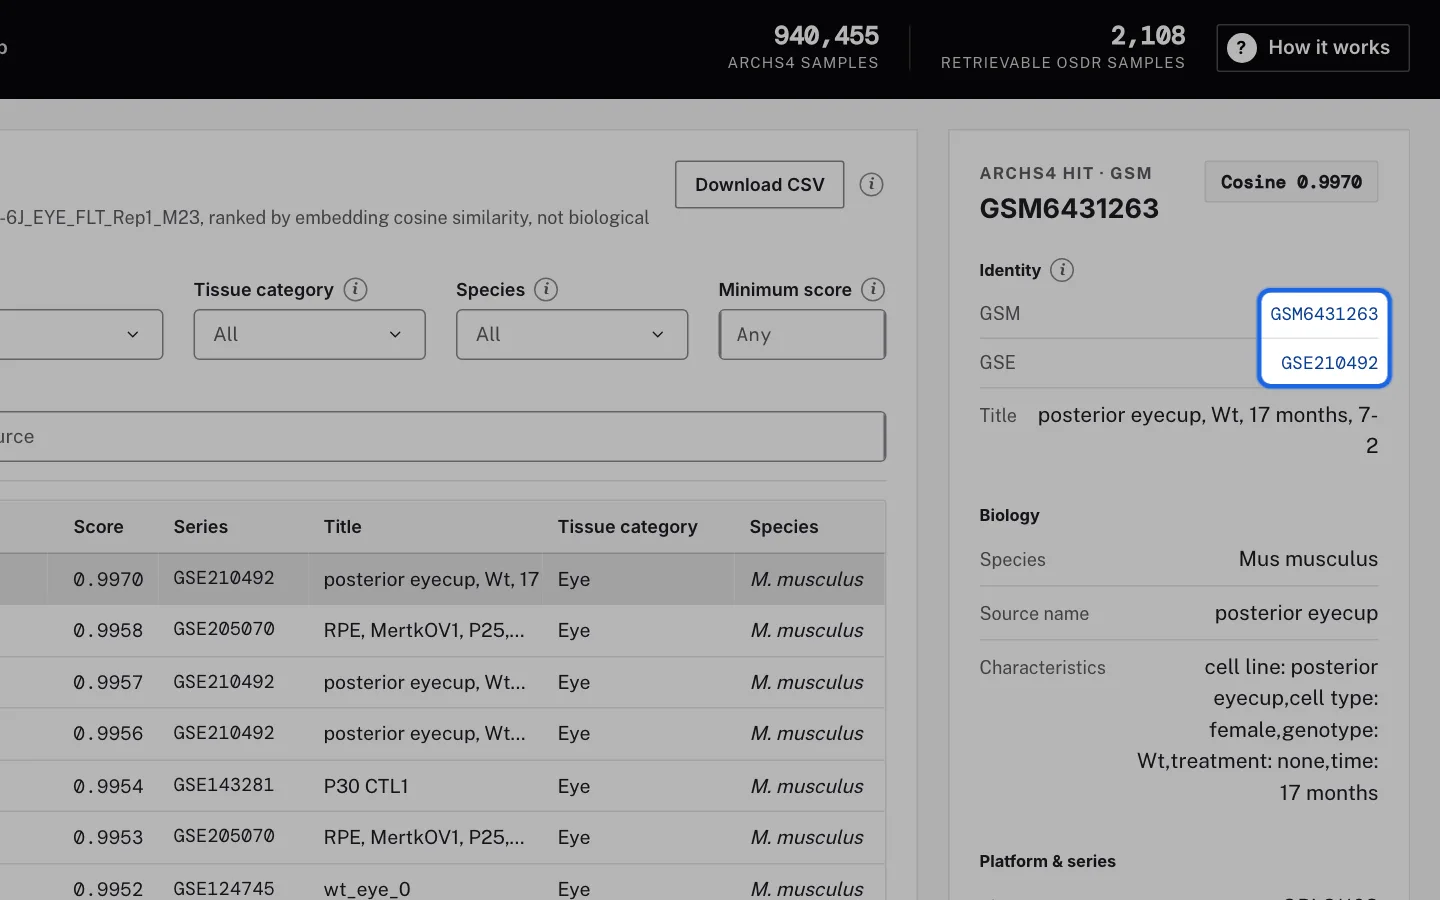
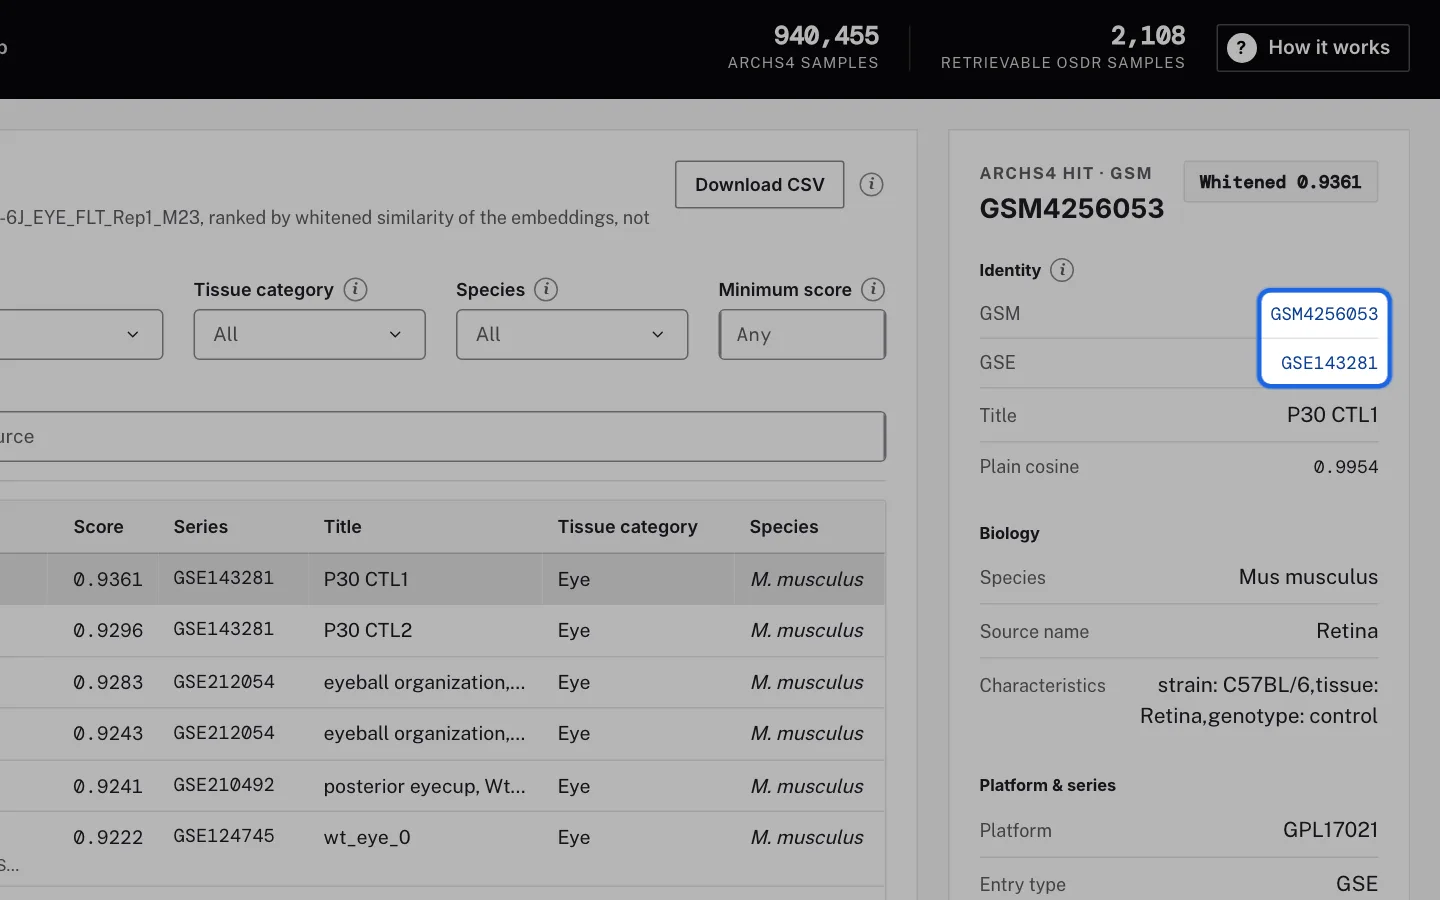
fix: inspector survives a selection absent from new results; recapture the guide
Select a match, then run a search that does not retrieve it, and the
details callback failed on an empty frame. Latent before whitening: the
browser suite's cohort comparison happened to retrieve the same match
under cosine. Pinned by a test.

Guide screenshots recaptured with the Matching control; docs and test
counts updated (1,025 unit, 628 browser checks, all passing).

diff --git a/bridge_rna/panels.py b/bridge_rna/panels.py
@@ -489,8 +489,10 @@ def _build_selected_details(query: pd.Series, selected_payload: dict[str, Any] |
         return _build_query_details(query_b, compact=False, role="b")
 
     if node_kind == "gse":
-        df = hits_df[hits_df["gse"] == node_id]
-        examples = ", ".join(df["gsm"].head(8).astype(str).tolist())
+        df = (hits_df[hits_df["gse"] == node_id] if "gse" in hits_df.columns
+              else hits_df.iloc[0:0])
+        examples = (", ".join(df["gsm"].head(8).astype(str).tolist())
+                    if "gsm" in df.columns else "")
         return [
             _details_head("GSE study", node_id),
             _accession_row("Study", node_id),
@@ -503,7 +505,11 @@ def _build_selected_details(query: pd.Series, selected_payload: dict[str, Any] |
             html.P("Click an individual GSM node for full GEO fields.", className="details-empty-hint"),
         ]
 
-    df = hits_df[hits_df["gsm"] == node_id]
+    # A selection can outlive the results it was made in: select a match, then
+    # run another search that does not retrieve it, and the inspector receives
+    # the selection with no rows at all - a frame without a `gsm` column.
+    df = (hits_df[hits_df["gsm"] == node_id] if "gsm" in hits_df.columns
+          else hits_df.iloc[0:0])
     if df.empty:
         return [
             _details_head("Details", "No metadata"),

diff --git a/tests/test_scoring.py b/tests/test_scoring.py
@@ -360,3 +360,21 @@ def test_each_search_records_the_scoring_that_actually_ran(monkeypatch, whitened
     payload, _ = callback("search-button")(1, sid, 1, None, "", [], "cosine")
     assert payload["scoring"] == "cosine"
 
+
+
+def test_a_selection_absent_from_new_results_does_not_break_the_inspector():
+    """Found by the browser suite under whitening: select a match, then run a
+    search that does not retrieve it, and the inspector got a selection with
+    no rows. Latent before; cosine happened to retrieve the same match."""
+    import app as shell
+
+    from bridge_rna import callbacks as rc
+
+    built = shell.build_app()
+    render = built.callback_map["details-panel.children"]["callback"].__wrapped__
+    q = rc._query_dict(rc.samples_df.iloc[0])
+    for kind in ("gsm", "gse"):
+        out = render({"query": q, "sample_id": "COHORT|x", "query_b": q,
+                      "entrez_email": "", "scoring": "whitened",
+                      "selected": {"kind": kind, "node_id": "GSM-NOT-HERE"}, "rows": []})
+        assert out

diff --git a/bridge_rna/guide.py b/bridge_rna/guide.py
@@ -53,7 +53,8 @@ CHAPTERS: tuple[Chapter, ...] = (
         Slide("retrieve-02-search",
               "Choose how many matches, then search",
               "Ask for anywhere from 3 to 1,000 of the closest GEO samples. "
-              "Search compares your sample against all 940,455 of them.",
+              "Search compares your sample against all 940,455 of them, ranked "
+              "by whitened similarity unless you pick Plain cosine.",
               "The number-of-matches control and the Search button."),
         Slide("retrieve-03-table",
               "Read the ranked matches",

diff --git a/CLAUDE.md b/CLAUDE.md
@@ -20,7 +20,7 @@ reintroduce its panel, warnings, or payload. Executed membership remains a discl
 `app.py` is the single entry point and owns the header and the router.
 **The router must decline to repaint a route that is already on screen.** `serve_layout` paints the requested view server-side, but `dcc.Location` publishes `pathname` once it mounts and Dash reads that as a change, so `prevent_initial_call` alone let the router rebuild the view on every load. Rebuilding the retrieval view reads the OSDR catalog, so its response landed a few hundred milliseconds later, on top of whatever the user had done meanwhile - clicking Cohort on arrival opened the cohort panel and then closed it again, 6 times out of 6, while the click's own callback had returned the right answer. `route-store` records what was painted and `app.navigation_for` is the decision, split out so it is testable without Dash plumbing. There is no `app_osdr_dash.py` and no `app_manifold.py`; both were deleted when the two repositories merged on 2026-07-22, and the map's 19 commits are in this history.
 
-**Current state: built, run on the real corpus, and tested.** 1,001 tests pass in about a minute, plus 618 browser checks: 217 in `tests/e2e_check.py`, 191 in `tests/e2e_cohort_check.py`, 70 in `tests/e2e_upload_check.py`, 59 in `tests/e2e_results_check.py`, 45 in `tests/e2e_help_check.py`, 33 in `tests/e2e_network_style.py`, and 3 in `tests/e2e_cleanup_check.py` (re-measured 2026-10-27 by running every suite).
+**Current state: built, run on the real corpus, and tested.** 1,025 tests pass in about a minute, plus 628 browser checks: 217 in `tests/e2e_check.py`, 191 in `tests/e2e_cohort_check.py`, 70 in `tests/e2e_upload_check.py`, 69 in `tests/e2e_results_check.py`, 45 in `tests/e2e_help_check.py`, 33 in `tests/e2e_network_style.py`, and 3 in `tests/e2e_cleanup_check.py` (re-measured 2026-10-28 by running every suite, with whitened matching the default).
 Each browser suite counts and prints what it actually ran, because the documented totals were hand-written and had drifted - and they drifted again, which is why these were re-measured by running every suite rather than by adding up the last recorded numbers.
 **The last two take a `--url` or `--port` and do not start their own server**, so they are the two that silently go unrun; both were stale when this was written.
 The ARCHS4 GEO metadata join is built (`cache/archs4_metadata.parquet`, 940,455 rows, 51,284 distinct GEO series), so the map colors by tissue across both corpora rather than by species alone.
@@ -437,15 +437,16 @@ Run the pipeline in this order; `fetch_archs4_meta.py` joins onto the identity t
 /Users/josh/Bridge-RNA/.venv/bin/python precompute/embed_osdr.py         # OSDR embeddings, gene-digest gated. Hours; resumable.
 /Users/josh/Bridge-RNA/.venv/bin/python precompute/build_projections.py  # full-corpus PCA + UMAP + t-SNE. See the timing note below.
 /Users/josh/Bridge-RNA/.venv/bin/python precompute/fetch_archs4_meta.py  # ARCHS4 GEO metadata. ~35 s, needs network.
+/Users/josh/Bridge-RNA/.venv/bin/python precompute/build_whitening.py   # the whitened-matching transform, ~30 s
 /Users/josh/Bridge-RNA/.venv/bin/python precompute/validate_artifacts.py --mixing --quality
 /Users/josh/Bridge-RNA/.venv/bin/python tests/check_join.py              # the join, on the real corpus
 /Users/josh/Bridge-RNA/.venv/bin/python app.py                          # http://127.0.0.1:8000
 
-/Users/josh/Bridge-RNA/.venv/bin/python -m pytest tests/ -q              # 1,001 tests, about a minute
+/Users/josh/Bridge-RNA/.venv/bin/python -m pytest tests/ -q              # 1,025 tests, about a minute
 /Users/josh/Bridge-RNA/.venv/bin/python tests/e2e_check.py               # 217 browser checks, about five minutes
 /Users/josh/Bridge-RNA/.venv/bin/python tests/e2e_upload_check.py        # 70 upload checks, about eight minutes
 /Users/josh/Bridge-RNA/.venv/bin/python tests/e2e_cohort_check.py        # 191 cohort checks, about five minutes
-/Users/josh/Bridge-RNA/.venv/bin/python tests/e2e_results_check.py       # 59 results-view checks, about five minutes
+/Users/josh/Bridge-RNA/.venv/bin/python tests/e2e_results_check.py       # 69 results-view checks, about five minutes
 /Users/josh/Bridge-RNA/.venv/bin/python tests/e2e_help_check.py          # 45 help and guide checks, about four minutes
 /Users/josh/Bridge-RNA/.venv/bin/python tests/guide_screenshots.py       # rewrites the guide's 20 screenshots, about four minutes
 

diff --git a/progress.md b/progress.md
@@ -6,6 +6,18 @@ Update after each meaningful change so another session can resume without losing
 This file used to track Bridge Manifold alone.
 The two repositories were merged on 2026-07-22 and it now covers the whole product; entries before that date describe the map half.
 
+## 2026-10-28 (whitened matching is the default ranking)
+
+**What changed.** Matches are now ranked by whitened similarity by default, with Plain cosine one click away under a new Matching control that drives Sample, Cohort and Upload. The transform is fitted on all 940,455 ARCHS4 rows with the eigenvalue floor at 1e-4 (`precompute/build_whitening.py`, about 30 s, writes the 5.9 MB `cache/whitening.npz`); a scan costs what a cosine scan costs. Every result records the scoring that ran and the transform's id, and every number on screen, in the CSV, on the map and in the AI prompt says which score it is, with the plain cosine kept beside each whitened score. Design: `docs/whitened-matching.md`; the measurement that chose it: `docs/matching-benchmark.md`.
+
+**Why it is the default.** Joshua's rule was that whitened becomes the default only if the cohort gate passes under it. It did, every check over all 204 cohorts: leave-one-out top-5 0.799 against 0.747 for cosine, +0.275 over the structure-free null, +0.041 over the within-study null, knee at k = 5. The benchmark (rerun with the tie fix) holds: per-tissue accuracy 0.694 within ARCHS4 and 0.979 for OSDR queries, against 0.644 and 0.956 for cosine, no tissue down more than 1.1 points.
+
+**Review.** Codex assessed the plan (10 findings) and the build (6 findings); every finding was checked against the code and fixed or answered, recorded in the design doc. The most consequential: the stored row norms must come from exactly the vector the scan multiplies (an eightfold error reduction), the artifact needs a content fingerprint (plus a whole-file hash checked by `deploy/preflight.py` on every apply), a malformed artifact must fall back to cosine rather than stop the view loading, and the gate itself was tightened (check 1b, a knee that never reaches the floor now fails, tolerances derived from each scoring's precision).
+
+**Found along the way.** The browser suite caught a latent inspector crash: select a match, then run a search that does not retrieve it, and the details callback failed on an empty frame. Cosine had happened to retrieve the same match in that suite; whitening did not. Fixed and pinned by a test. Three suites assumed the cosine scale and now test what they meant. A live-embedded upload differs from the precomputed vector by up to 8e-5 per coordinate; the ranking matches exactly, and whitening magnifies the score difference to the fourth decimal.
+
+**Verified.** 1,025 unit tests; browser suites 217, 69, 191, 70, 45, 33 and 3 checks; guide screenshots recaptured.
+
 ## 2026-10-27 (in-app help: "i" explanations and a guided tour)
 
 **"i" explanations.** Thirty-two small "i" buttons across both views, beside the controls, filters, plot switch, inspector, AI summary, map rail and neighborhood explorer. Each opens a short plain explanation and, where it helps, the real lines of code behind the feature with the file they come from. Joshua asked for many so he can prune them; removing one is deleting one `info(...)` call. `tests/test_help.py` requires every quoted block to appear contiguously and in order in the cited file, so an explanation can never show code the app no longer runs. The explanations render once on the shell and `assets/info-popover.js` shows one in a body-level popover, which no scroll container can clip and which never rewrites a Dash node.

diff --git a/docs/whitened-matching.md b/docs/whitened-matching.md
@@ -86,4 +86,5 @@ Whitened passes every check, so it is the default.
 - [x] Scan, all three search paths, payload, plain cosine beside each match
 - [x] Matching control, banner phrase, inspector, CSV, plot axis, help entry
 - [x] `validate_cohorts.py --scoring whitened`, then the default
-- [ ] Browser suites, guide screenshots, deployment, the shared Drive folder
+- [x] Browser suites (all seven pass), guide screenshots recaptured, Codex's review of the build fixed
+- [ ] Deployment to the NASA server and the shared Drive folder
